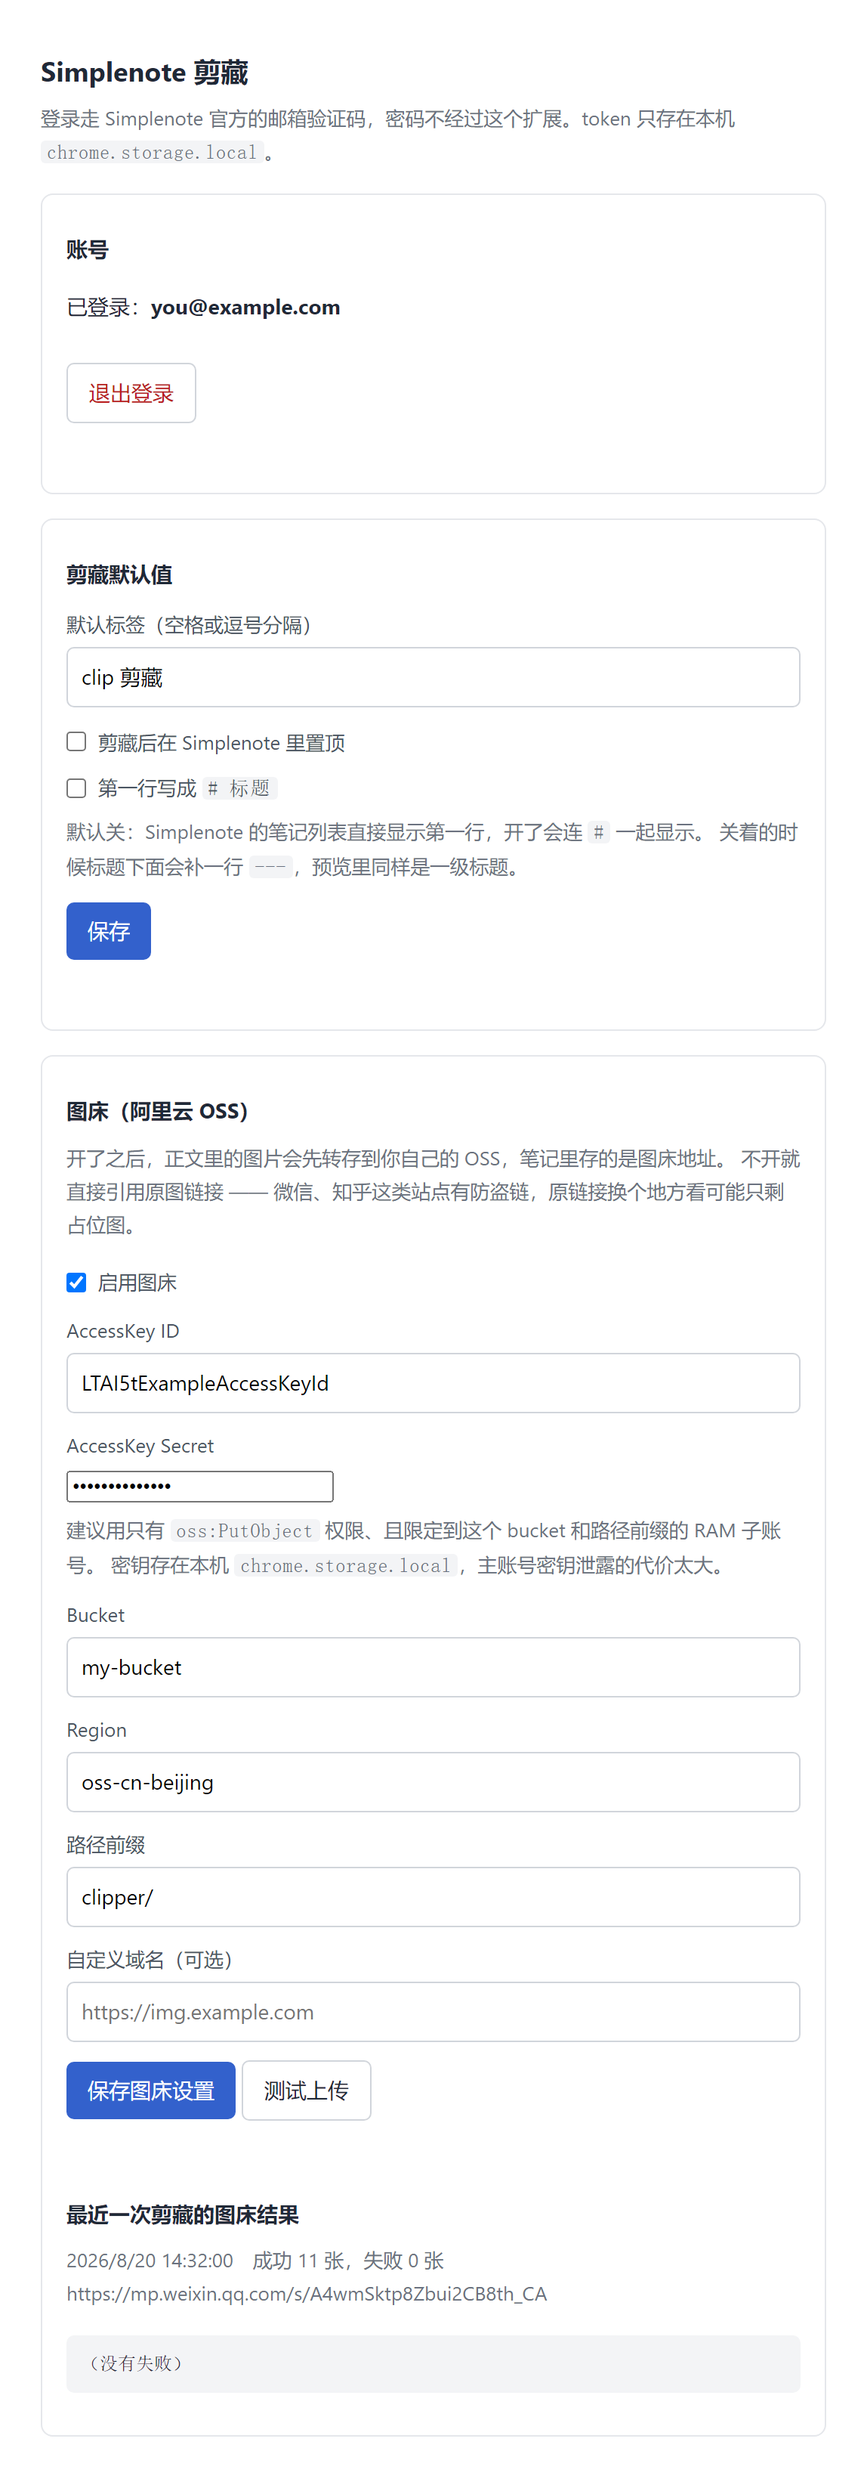
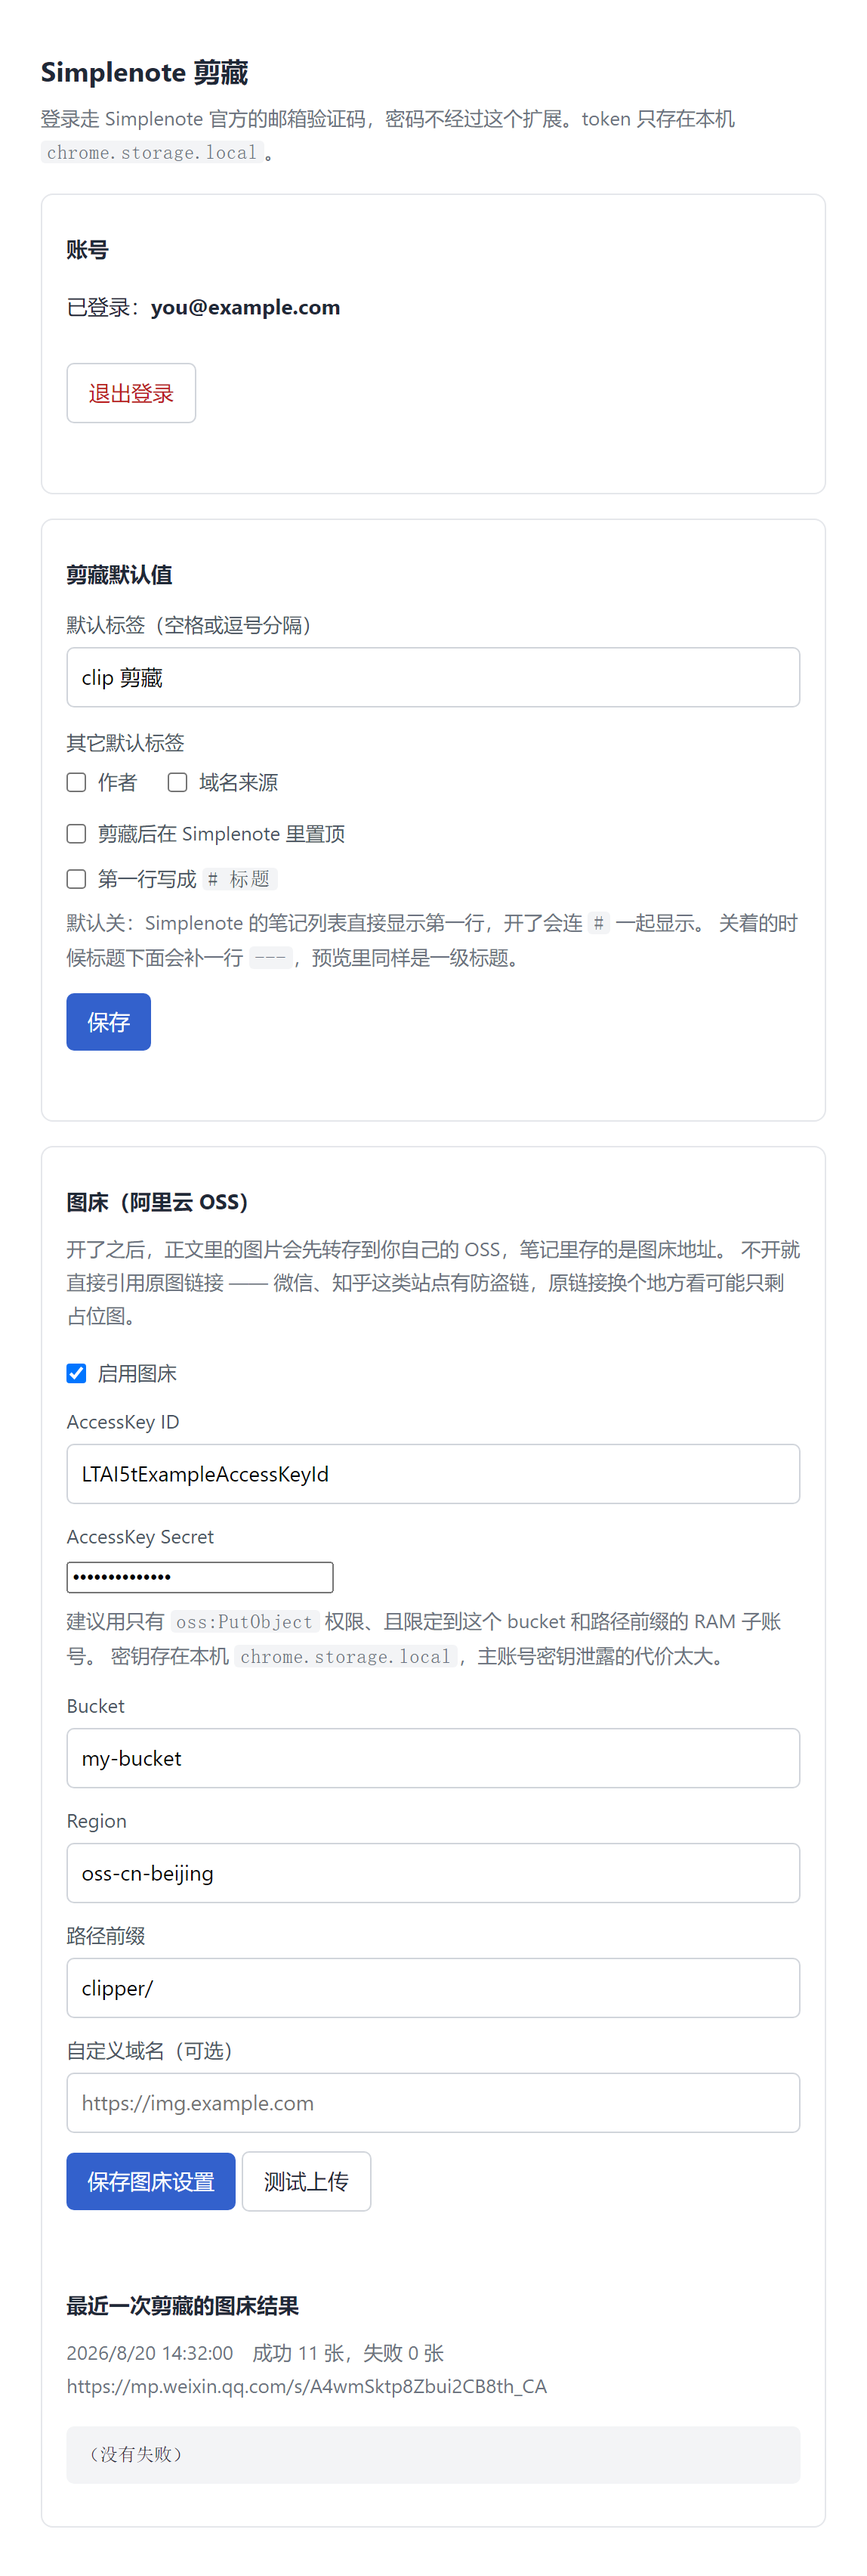
feat(设置): 作者 / 域名来源改成两个开关，默认都不打标签
设置页「默认标签」下面加一组「其它默认标签」，两个复选框控制要不要把作者名和
来源域名也打成标签，勾选状态存在 chrome.storage.local 里。

这改了默认行为：以前作者和站点是无条件加的，现在默认只有手填标签。buildTags
新增 withAuthor / withSite 两个参数，默认 false，和 UI 默认值对齐。

README 的标签一节和 docs/sites.md 里「标签」那几行同步改了口径，设置页截图重拍。

Agent-Task: 标签开关

diff --git a/lib/note.js b/lib/note.js
@@ -34,9 +34,15 @@ export function authorTag(author) {
 	return name;
 }
 
-/** 用户手填标签 + 作者标签 + 来源站点标签，合成最终标签数组。 */
-export function buildTags({ tags = [], author = '', url = '' } = {}) {
-	return normalizeTags([...normalizeTags(tags), authorTag(author), domainTag(url)]);
+/**
+ * 用户手填标签 + 可选的作者标签和来源站点标签。
+ * 后两个由设置页的开关控制，默认不加。
+ */
+export function buildTags({ tags = [], author = '', url = '', withAuthor = false, withSite = false } = {}) {
+	const extra = [];
+	if (withAuthor) extra.push(authorTag(author));
+	if (withSite) extra.push(domainTag(url));
+	return normalizeTags([...normalizeTags(tags), ...extra]);
 }
 
 // 2026年8月19日 / 2026-8-19 / 2026/08/19 —— 公众号的 #publish_time 是中文格式，

diff --git a/options.js b/options.js
@@ -22,6 +22,8 @@ async function renderSettings() {
 	$('default-tags').value = settings.defaultTags;
 	$('pinned').checked = Boolean(settings.pinned);
 	$('title-heading').checked = Boolean(settings.titleHeading);
+	$('tag-author').checked = Boolean(settings.tagAuthor);
+	$('tag-site').checked = Boolean(settings.tagSite);
 }
 
 // 两次请求之间至少隔这么久。连点时多余的点击直接丢掉，不发请求。
@@ -174,6 +176,8 @@ $('save-settings').addEventListener('click', async () => {
 		defaultTags: $('default-tags').value,
 		pinned: $('pinned').checked,
 		titleHeading: $('title-heading').checked,
+		tagAuthor: $('tag-author').checked,
+		tagSite: $('tag-site').checked,
 	});
 	setStatus('settings-status', '已保存。', 'ok');
 });

diff --git a/options.html b/options.html
@@ -97,6 +97,11 @@
     <h2>剪藏默认值</h2>
     <label for="default-tags">默认标签（空格或逗号分隔）</label>
     <input type="text" id="default-tags" autocomplete="off" spellcheck="false">
+    <label style="margin:12px 0 4px">其它默认标签</label>
+    <div style="display:flex;gap:20px">
+      <span class="row"><input type="checkbox" id="tag-author"><label for="tag-author">作者</label></span>
+      <span class="row"><input type="checkbox" id="tag-site"><label for="tag-site">域名来源</label></span>
+    </div>
     <div class="row" style="margin-top:12px">
       <input type="checkbox" id="pinned">
       <label for="pinned">剪藏后在 Simplenote 里置顶</label>

diff --git a/background.js b/background.js
@@ -261,11 +261,13 @@ export async function clip({ tabId, tags, skipImages = false } = {}) {
 		});
 		const noteData = buildNoteData({
 			content,
-			// 作者和来源站点不写进 frontmatter，走标签
+			// 来源站点不写进属性区；作者两边都有，标签那份看设置开关
 			tags: buildTags({
 				tags: tags ?? settings.defaultTags,
 				author: article.author,
 				url: article.url,
+				withAuthor: settings.tagAuthor,
+				withSite: settings.tagSite,
 			}),
 			pinned: settings.pinned,
 		});

diff --git a/storage.js b/storage.js
@@ -11,6 +11,9 @@ const DEFAULT_SETTINGS = {
 	// 第一行是否写成 "# 标题"。默认关闭：Simplenote 列表里直接显示第一行，
 	// 带 # 会连井号一起显示。
 	titleHeading: false,
+	// 作者名和来源域名要不要也打成标签，默认关。
+	tagAuthor: false,
+	tagSite: false,
 	// 图床（阿里云 OSS）。默认关闭，不填就走原图链接。
 	oss: {
 		enabled: false,

diff --git a/README.md b/README.md
@@ -94,8 +94,13 @@ created: 2026-08-20
 
 ### 标签
 
-标签 = 你手填的（或设置里的默认值）+ 作者 + 来源站点。作者名里的空格会换成连字符，
-否则 Simplenote 会把它拆成好几个标签。
+标签 = 你手填的（或设置里的默认值）。设置页的「其它默认标签」还有两个开关，勾上才会
+额外打标签，默认都关：
+
+| 开关 | 加什么 |
+|------|--------|
+| 作者 | 作者名，里面的空格换成连字符（`John Smith` → `John-Smith`），否则 Simplenote 会按空格把它拆成好几个标签 |
+| 域名来源 | 来源站点，走下面那张映射表 |
 
 站点标签走 `lib/domains.js` 里的映射表，子域自动继承（`zhuanlan.zhihu.com` → `知乎`），
 没配的域名退回主机名本身，不硬造中文名。常用站点加映射直接改那张表：
@@ -107,8 +112,7 @@ created: 2026-08-20
 | `zhuanlan.zhihu.com/p/1` | `知乎` |
 | `blog.example.com/a` | `blog.example.com` |
 
-作者两边都留：属性区里是原样的名字，标签里空格换成连字符（`John Smith` → `John-Smith`），
-因为 Simplenote 按空格切标签。站点只进标签。
+作者在笔记属性区里始终是原样的名字，和标签那份不是同一个形态。站点不进属性区。
 
 ## 图床（可选）
 
